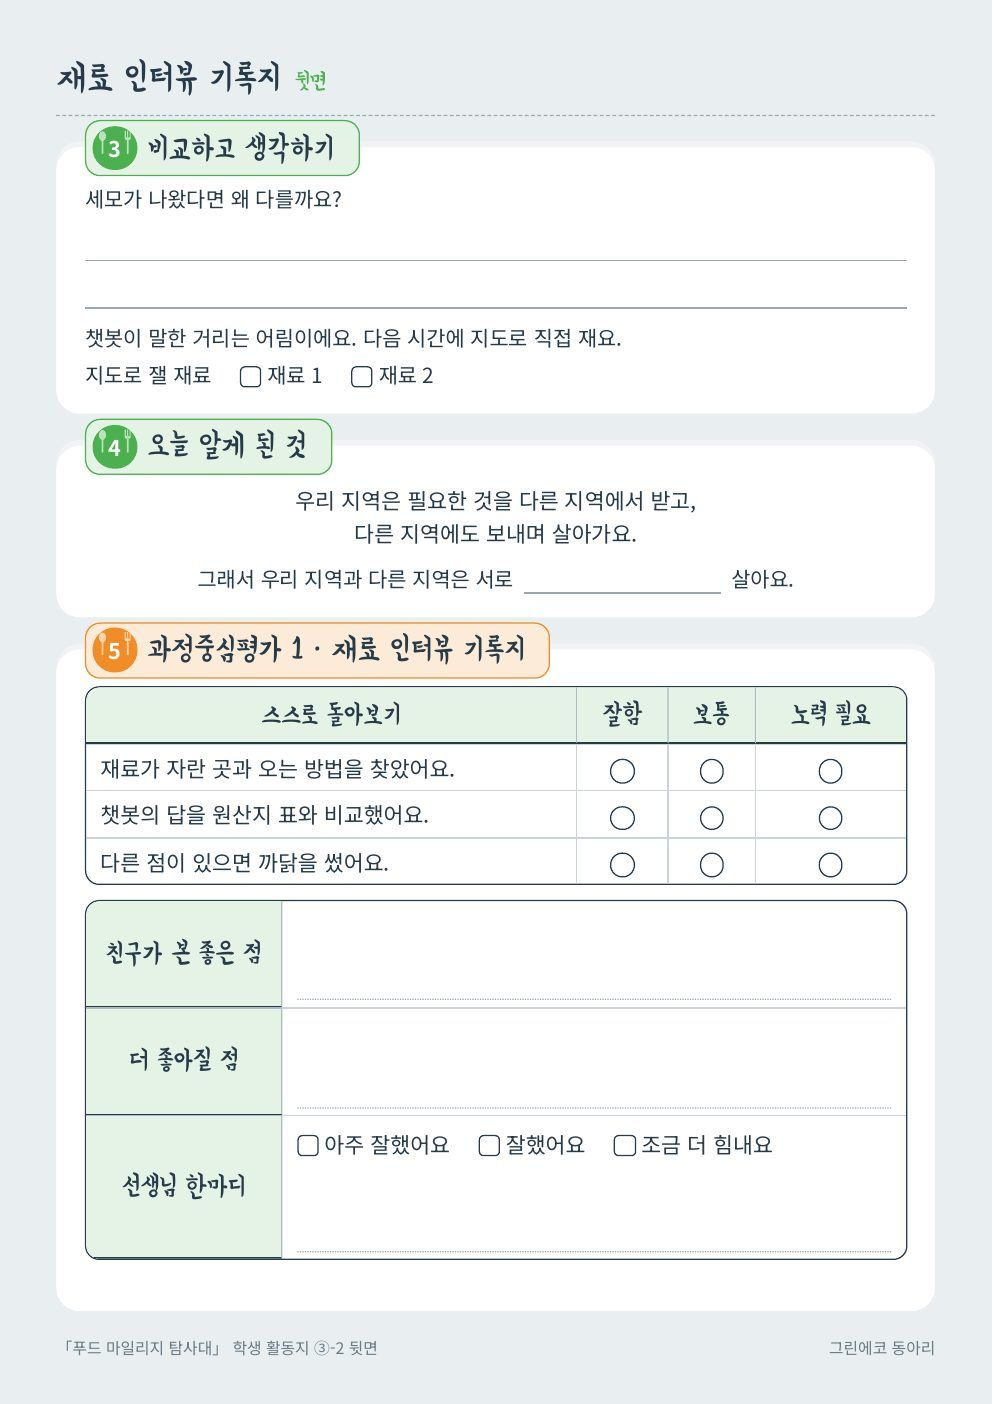
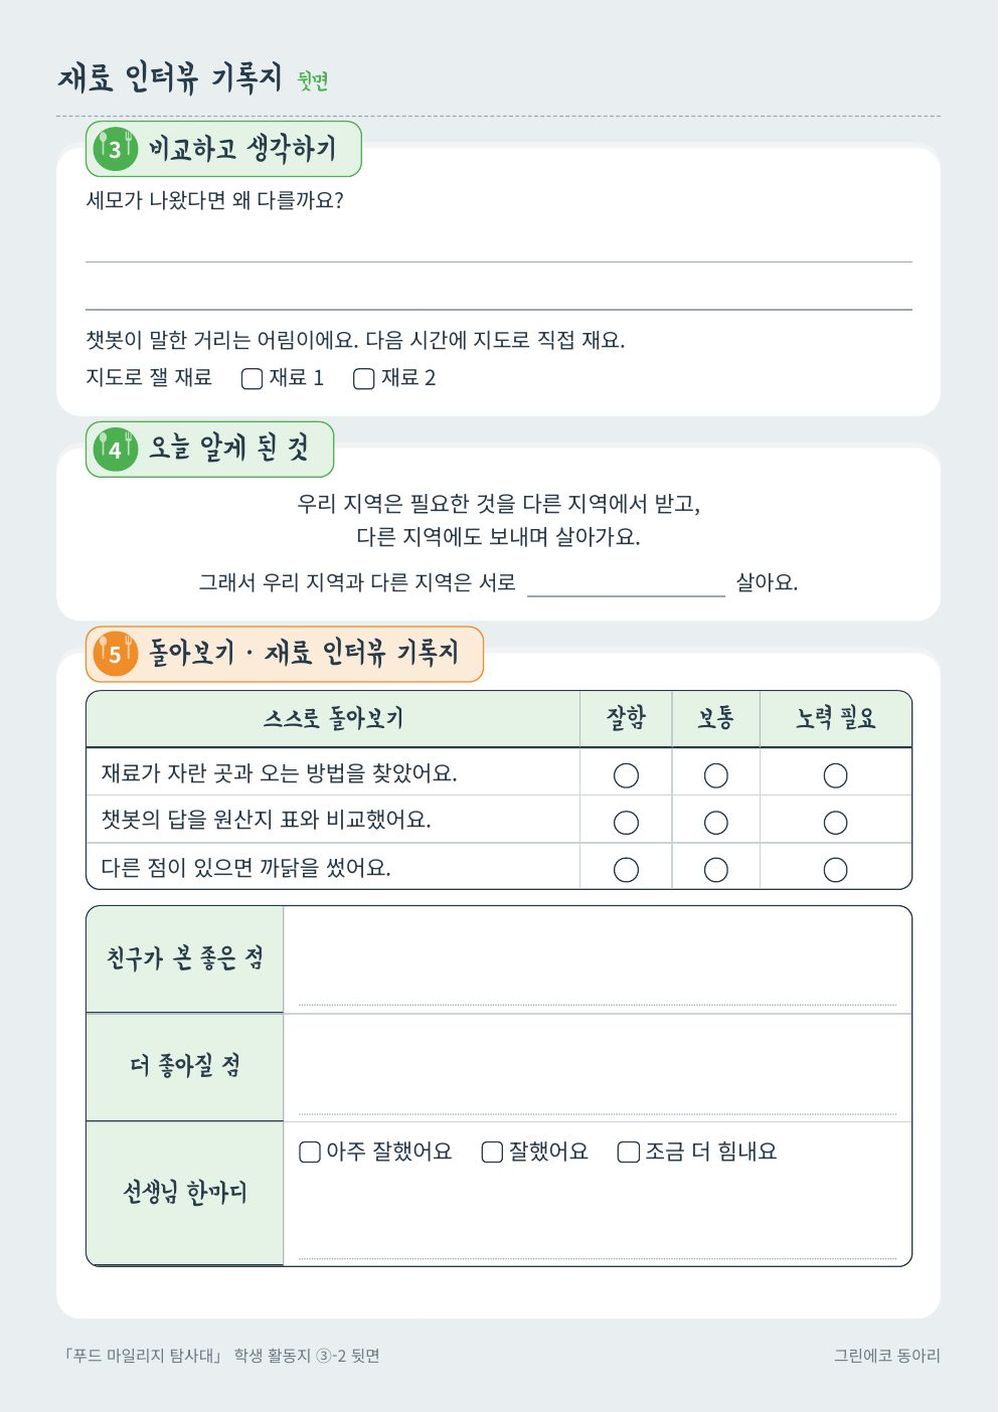
푸드 마일리지 탐사대(mid-3): 과정중심평가 1개(9차시 초록 장바구니 채우기)로 활동지·수업 자료 그림 바꿈
Claude-Session: https://claude.ai/code/session_01AhFGFvJSwMTvWfTLttjRGr

diff --git a/index.html b/index.html
@@ -727,7 +727,7 @@ const P=[
   ai:"2차시에 모둠이 선생님이 미조우(Mizou)로 만든 「식판 위 재료 인터뷰」 챗봇에게 묻고, 그 답을 원산지 표와 지도로 확인해요. 5차시에는 직접 그린 막대그래프를 교사 화면의 생성형 AI 해석과 견주어요. 학생 개인 계정 없이 교사가 준 링크로만 쓰고, 카드뉴스에는 출처와 'AI 도움'을 밝혀요.",
   std:[["4사05-01","우리 지역을 표현한 다양한 종류의 지도를 찾아보고, 지도의 요소를 이해한다."],["4사07-02","생산과 소비 활동을 파악하고, 인적·물적 교류의 사례를 통해 각 지역 및 사람들이 상호의존 관계를 맺고 있음을 탐색한다."],["4수04-01","자료를 수집하여 그림그래프나 막대그래프로 나타내고 해석할 수 있다."],["4미01-04","생활 속에서 활용되는 미술에 관심을 가지고 미술의 특징과 역할을 발견할 수 있다."]],
   res:[["수업 자료",[{n:"11차시 수업 자료",sub:"10쪽",img:Array.from({length:10},(_,k)=>`materials/mid-3/guide/p-${String(k+1).padStart(2,"0")}.jpg`)},{n:"2차시 챗봇 인터뷰 장면",sub:"미조우 「식판 위 재료 인터뷰」",img:[1,2,3].map(k=>`materials/mid-3/chatbot/p-0${k}.jpg`)}]],
-       ["학생 활동지",[{n:"학생 활동지 11종",sub:"18쪽 · 수행지 4개 포함",img:Array.from({length:18},(_,k)=>`materials/mid-3/sheets/p-${String(k+1).padStart(2,"0")}.jpg`)}]],
+       ["학생 활동지",[{n:"학생 활동지 11종",sub:"18쪽 · 과정중심평가 1개(9차시)",img:Array.from({length:18},(_,k)=>`materials/mid-3/sheets/p-${String(k+1).padStart(2,"0")}.jpg`)}]],
        ["수업용 웹앱",[{n:"식판 위 재료 인터뷰",sub:"2차시 챗봇 인터뷰",ext:"https://mizou.com/preview-bot?ID=168483",extMsg:"미조우(Mizou)로 만든 급식 재료 캐릭터 챗봇이에요. 미조우 누리집에서 열려요. 학생은 수업 때 선생님이 New Session으로 만든 링크로 들어가요."}],"챗봇 「식판 위 재료 인터뷰」 · 웹앱 2개는 준비 중"],
        ["수업 결과물",[]]]},
  {id:"hi-1",line:"hi",no:1,name:"태풍 대비 작전",sub:"가짜 정보를 가려내고 우리 집 재난 대비 앱을 만들어요",

diff --git a/_work/project-data.js b/_work/project-data.js
@@ -55,7 +55,7 @@ const P=[
   ai:"2차시에 모둠이 선생님이 미조우(Mizou)로 만든 「식판 위 재료 인터뷰」 챗봇에게 묻고, 그 답을 원산지 표와 지도로 확인해요. 5차시에는 직접 그린 막대그래프를 교사 화면의 생성형 AI 해석과 견주어요. 학생 개인 계정 없이 교사가 준 링크로만 쓰고, 카드뉴스에는 출처와 'AI 도움'을 밝혀요.",
   std:[["4사05-01","우리 지역을 표현한 다양한 종류의 지도를 찾아보고, 지도의 요소를 이해한다."],["4사07-02","생산과 소비 활동을 파악하고, 인적·물적 교류의 사례를 통해 각 지역 및 사람들이 상호의존 관계를 맺고 있음을 탐색한다."],["4수04-01","자료를 수집하여 그림그래프나 막대그래프로 나타내고 해석할 수 있다."],["4미01-04","생활 속에서 활용되는 미술에 관심을 가지고 미술의 특징과 역할을 발견할 수 있다."]],
   res:[["수업 자료",[{n:"11차시 수업 자료",sub:"10쪽",img:Array.from({length:10},(_,k)=>`materials/mid-3/guide/p-${String(k+1).padStart(2,"0")}.jpg`)},{n:"2차시 챗봇 인터뷰 장면",sub:"미조우 「식판 위 재료 인터뷰」",img:[1,2,3].map(k=>`materials/mid-3/chatbot/p-0${k}.jpg`)}]],
-       ["학생 활동지",[{n:"학생 활동지 11종",sub:"18쪽 · 수행지 4개 포함",img:Array.from({length:18},(_,k)=>`materials/mid-3/sheets/p-${String(k+1).padStart(2,"0")}.jpg`)}]],
+       ["학생 활동지",[{n:"학생 활동지 11종",sub:"18쪽 · 과정중심평가 1개(9차시)",img:Array.from({length:18},(_,k)=>`materials/mid-3/sheets/p-${String(k+1).padStart(2,"0")}.jpg`)}]],
        ["수업용 웹앱",[{n:"식판 위 재료 인터뷰",sub:"2차시 챗봇 인터뷰",ext:"https://mizou.com/preview-bot?ID=168483",extMsg:"미조우(Mizou)로 만든 급식 재료 캐릭터 챗봇이에요. 미조우 누리집에서 열려요. 학생은 수업 때 선생님이 New Session으로 만든 링크로 들어가요."}],"챗봇 「식판 위 재료 인터뷰」 · 웹앱 2개는 준비 중"],
        ["수업 결과물",[]]]},
  {id:"hi-1",line:"hi",no:1,name:"태풍 대비 작전",sub:"가짜 정보를 가려내고 우리 집 재난 대비 앱을 만들어요",
